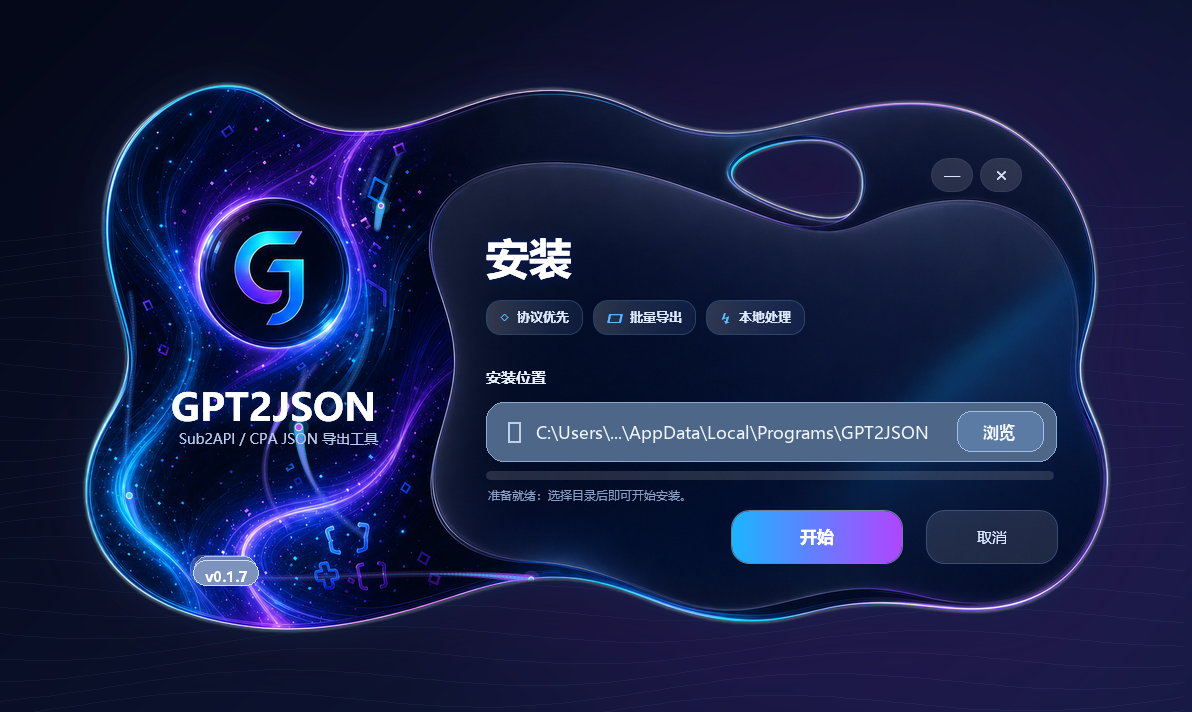
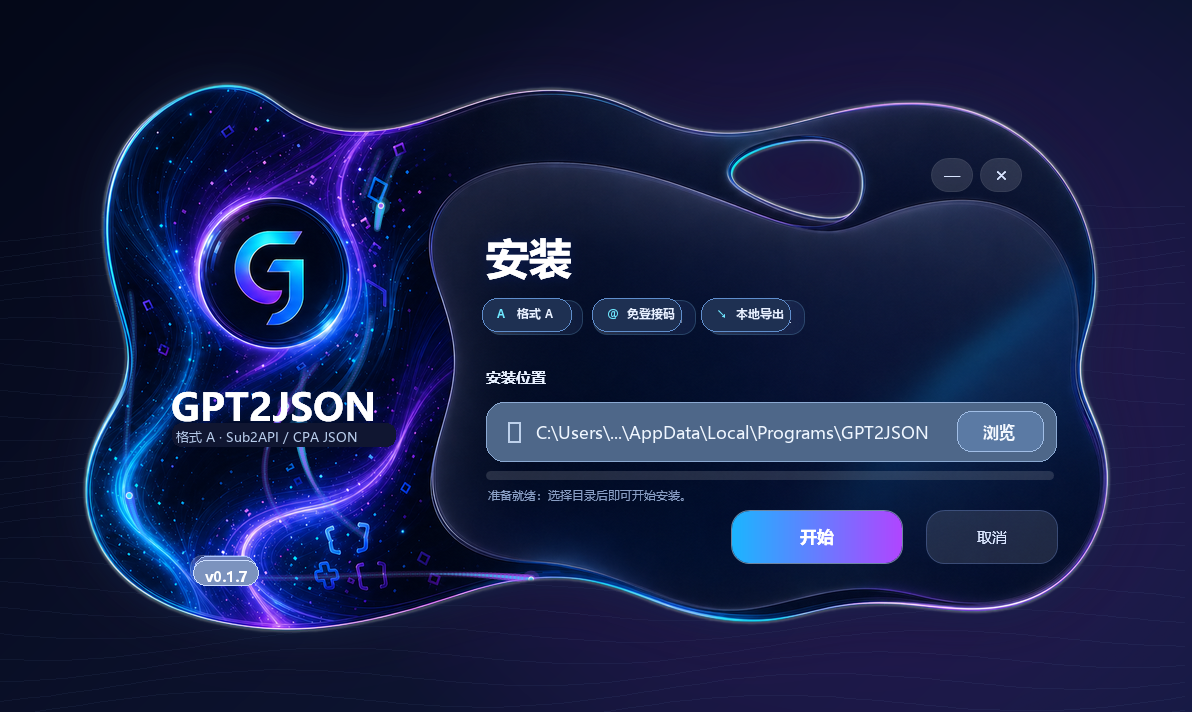
Clarify supplier format A wording

Changed region(s): [[0.4035, 0.4017, 0.6829, 0.4635], [0.1552, 0.5871, 0.3414, 0.6489]]

diff --git a/scripts/generate_docs_assets.py b/scripts/generate_docs_assets.py
@@ -131,12 +131,12 @@ def create_hero() -> None:
     draw.text((316, 157), f"v{version}", font=font(24, bold=True), fill="#DCEBFF")
     draw.text((144, 280), "GPT2JSON", font=font(112, bold=True), fill="#FFFFFF")
     draw.text((149, 405), "Sub2API / CPA JSON 导出工具", font=font(43, bold=True), fill="#DBEAFE")
-    draw.text((151, 468), "本地生成 · 按号商格式适配 · 中文桌面体验 · 批次隔离", font=font(30), fill="#AFC4EA")
+    draw.text((151, 468), "本地生成 · 号商格式 A · 中文桌面体验 · 批次隔离", font=font(30), fill="#AFC4EA")
 
     # Minimal capability row: fine separators instead of heavy badges.
     cap_layer = Image.new("RGBA", img.size, (0, 0, 0, 0))
     cap_draw = ImageDraw.Draw(cap_layer)
-    cap_specs = [(151, "号商格式", "#60A5FA"), (318, "本地导出", "#22D3EE"), (484, "Sub2API", "#A78BFA"), (660, "CPA", "#34D399"), (770, "批次隔离", "#93C5FD")]
+    cap_specs = [(151, "格式 A", "#60A5FA"), (286, "免登接码", "#22D3EE"), (452, "Sub2API", "#A78BFA"), (628, "CPA", "#34D399"), (738, "批次隔离", "#93C5FD")]
     for index, (x, label, color) in enumerate(cap_specs):
         cap_draw.ellipse((x, 584, x + 10, 594), fill=color)
         cap_draw.text((x + 19, 574), label, font=font(22, bold=True), fill=(226, 239, 255, 218))
@@ -215,6 +215,38 @@ def create_installer_preview() -> None:
         text_font = font(max(15, int(height * 0.020)), bold=True)
         bbox = draw.textbbox((0, 0), text, font=text_font)
         draw.text((x1 + (x2 - x1 - (bbox[2] - bbox[0])) / 2, y1 + (y2 - y1 - (bbox[3] - bbox[1])) / 2 - 1), text, font=text_font, fill="#FFFFFF")
+        # Keep the sanitized real screenshot aligned with current installer copy.
+        # These patches intentionally sit on top of the screenshot so the local
+        # install path remains sanitized while wording changes stay deterministic.
+        sx = width / 1200
+        sy = height / 720
+        label_font = font(max(12, int(14 * sy)))
+        pill_font = font(max(11, int(13 * sy)), bold=True)
+        draw.rounded_rectangle(
+            (int(174 * sx), int(428 * sy), int(398 * sx), int(452 * sy)),
+            radius=max(8, int(10 * sy)),
+            fill=(16, 22, 49, 210),
+        )
+        draw.text((int(178 * sx), int(433 * sy)), "格式 A · Sub2API / CPA JSON", font=label_font, fill="#B8CDEC")
+
+        def installer_pill(x: int, icon: str, label: str) -> None:
+            px = int(x * sx)
+            py = int(302 * sy)
+            pw = int(90 * sx)
+            ph = int(34 * sy)
+            draw.rounded_rectangle(
+                (px, py, px + pw, py + ph),
+                radius=max(12, int(16 * sy)),
+                fill=(30, 48, 82, 245),
+                outline=(95, 142, 205, 170),
+                width=1,
+            )
+            draw.text((px + int(16 * sx), py + int(8 * sy)), icon, font=pill_font, fill="#6EE7FF")
+            draw.text((px + int(36 * sx), py + int(8 * sy)), label, font=pill_font, fill="#E8F0FF")
+
+        installer_pill(486, "A", "格式 A")
+        installer_pill(596, "@", "免登接码")
+        installer_pill(706, "↘", "本地导出")
         img.convert("RGB").save(preview, quality=96)
         print(f"Preserved real installer screenshot and updated version badge: {preview}")
         return

diff --git a/gpt2json/gui.py b/gpt2json/gui.py
@@ -146,7 +146,7 @@ def install_qt_translations(app: QApplication | None) -> None:
     _QT_TRANSLATIONS_INSTALLED = installed
 
 
-READY_LOG = "🟢 等待开始：请粘贴账号文本，或导入账号文件。\n📄 当前支持：号商页面 https://pay.ldxp.cn/shop/plus7 提供的账号格式，后续格式适配敬请期待。\n📮 说明：程序会优先尝试账密登录；只有服务端要求验证码时，才会访问输入里的取码源。"
+READY_LOG = "🟢 等待开始：请粘贴账号文本，或导入账号文件。\n📄 当前支持：号商格式 A（GPT 账密 + 免登录接码）：https://pay.ldxp.cn/shop/plus7，后续格式适配敬请期待。\n📮 说明：程序会优先尝试 GPT 账密登录；只有服务端要求验证码时，才会访问输入里的接码源。"
 _UI_FONT_FAMILY = ""
 _QT_TRANSLATORS: list[QTranslator] = []
 _QT_TRANSLATIONS_INSTALLED = False
@@ -456,7 +456,7 @@ class MainWindow(QMainWindow):
         self.paste_edit = QPlainTextEdit()
         self.paste_edit.setObjectName("PasteBox")
         self.paste_edit.setSizePolicy(QSizePolicy.Policy.Expanding, QSizePolicy.Policy.Expanding)
-        self.paste_edit.setPlaceholderText("自动识别账号格式\n当前支持：GPT邮箱----GPT登录密码----免登录取码源\n每行一个账号，以当前选中的输入来源为准。")
+        self.paste_edit.setPlaceholderText("自动识别账号格式\n当前支持：号商格式 A：GPT邮箱----GPT登录密码----免登录接码源\n每行一个账号，以当前选中的输入来源为准。")
         self.paste_edit.textChanged.connect(self._on_paste_changed)
         install_chinese_text_context_menu(self.paste_edit)
         self.input_stack.addWidget(self.paste_edit)

diff --git a/packaging/windows/artsetup/ArtSetup.cs b/packaging/windows/artsetup/ArtSetup.cs
@@ -243,7 +243,7 @@ namespace GPT2JSON.Setup
 
             var sub = new TextBlock
             {
-                Text = "Sub2API / CPA JSON 导出工具",
+                Text = "格式 A · Sub2API / CPA JSON",
                 Foreground = new SolidColorBrush(Color.FromRgb(184, 205, 236)),
                 FontSize = 14,
                 Margin = new Thickness(103, 354, 0, 0)
@@ -312,9 +312,9 @@ namespace GPT2JSON.Setup
             overlay.Children.Add(title);
 
             var features = new WrapPanel();
-            features.Children.Add(FeaturePill("◇", "协议优先"));
-            features.Children.Add(FeaturePill("▱", "批量导出"));
-            features.Children.Add(FeaturePill("↯", "本地处理"));
+            features.Children.Add(FeaturePill("A", "格式 A"));
+            features.Children.Add(FeaturePill("@", "免登接码"));
+            features.Children.Add(FeaturePill("↘", "本地导出"));
             Canvas.SetLeft(features, 410);
             Canvas.SetTop(features, 224);
             overlay.Children.Add(features);

diff --git a/gpt2json/parsing.py b/gpt2json/parsing.py
@@ -169,10 +169,10 @@ def parse_account_lines(lines: Iterable[str]) -> list[AccountRow]:
 INPUT_FORMATS: dict[str, InputFormat] = {
     "dash_otp": InputFormat(
         id="dash_otp",
-        label="号商格式 / 三段式",
+        label="号商格式 A / GPT账密+免登录接码",
         parser=parse_dash_otp_lines,
-        description="目前暂时只支持号商页面 https://pay.ldxp.cn/shop/plus7 提供的账号格式；第二段是 GPT/OpenAI 登录密码，后续格式适配敬请期待。",
-        placeholder="GPT邮箱----GPT登录密码----免登录取码源\n每行一个账号，粘贴内容优先于文件。",
+        description="目前暂时只支持号商页面 https://pay.ldxp.cn/shop/plus7 提供的账号格式；字段为 GPT 邮箱、GPT/OpenAI 登录密码、免登录接码源，后续格式适配敬请期待。",
+        placeholder="GPT邮箱----GPT登录密码----免登录接码源\n每行一个账号，粘贴内容优先于文件。",
     ),
 }
 

diff --git a/packaging/windows/artsetup/ArtUninstall.cs b/packaging/windows/artsetup/ArtUninstall.cs
@@ -204,7 +204,7 @@ namespace GPT2JSON.Uninstall
 
             var desc = new TextBlock
             {
-                Text = "将移除程序文件与快捷方式，账号与导出文件不会被安装器主动删除。",
+                Text = "将移除程序文件与快捷方式，账号与导出文件不会被卸载器主动删除。",
                 Foreground = new SolidColorBrush(Color.FromRgb(166, 187, 220)),
                 FontSize = 14,
                 TextWrapping = TextWrapping.Wrap,
@@ -360,7 +360,7 @@ namespace GPT2JSON.Uninstall
             });
             shell.Children.Add(new TextBlock
             {
-                Text = "Sub2API / CPA JSON 导出工具",
+                Text = "格式 A · Sub2API / CPA JSON",
                 Foreground = new SolidColorBrush(Color.FromRgb(184, 205, 236)),
                 FontSize = 14,
                 Margin = new Thickness(103, 354, 0, 0)

diff --git a/gpt2json/cli.py b/gpt2json/cli.py
@@ -15,7 +15,7 @@ def build_parser() -> argparse.ArgumentParser:
     parser = argparse.ArgumentParser(description="GPT2JSON：Sub2API / CPA JSON 导出工具。")
     supported_formats = ", ".join(["auto", *(fmt.id for fmt in list_input_formats())])
     parser.add_argument("--version", action="version", version=f"GPT2JSON {__version__}")
-    parser.add_argument("--input", help="账号文本文件：GPT邮箱----GPT登录密码----免登录取码源")
+    parser.add_argument("--input", help="账号文本文件：GPT邮箱----GPT登录密码----免登录接码源")
     parser.add_argument("--stdin", action="store_true", help="从标准输入读取账号文本；优先级高于 --input")
     parser.add_argument("--out-dir", required=True, help="输出目录")
     parser.add_argument("--concurrency", type=int, default=0, help="并发数；0 表示自动")

diff --git a/tests/test_parsing.py b/tests/test_parsing.py
@@ -26,7 +26,8 @@ def test_parse_account_lines_dedupes_and_normalizes():
 
 def test_input_format_registry_supports_auto_and_errors():
     dash_format = next(fmt for fmt in list_input_formats() if fmt.id == "dash_otp")
-    assert "号商格式" in dash_format.label
+    assert "号商格式 A" in dash_format.label
+    assert "免登录接码" in dash_format.label
     assert "pay.ldxp.cn/shop/plus7" in dash_format.description
     assert dash_format.placeholder
     future_presets = list_future_input_format_presets()

diff --git a/README.md b/README.md
@@ -71,25 +71,25 @@ gpt2json --input accounts.txt --out-dir output --input-format auto
 
 ## 当前支持
 
-### 当前支持来源
+### 当前支持格式
 
-| 来源 | 支持状态 | 说明 |
+| 格式 | 支持状态 | 字段结构 |
 | --- | --- | --- |
-| [号商格式](https://pay.ldxp.cn/shop/plus7) | ✅ 已支持 | 仅适配该页面交付的账号文本格式 |
+| [号商格式 A](https://pay.ldxp.cn/shop/plus7) | ✅ 已支持 | GPT 账号 + GPT 登录密码 + 免登录接码源 |
 
-当前版本只对上面这个号商页面交付的账号格式做了适配；其它来源、其它字段顺序或其它取码方式暂不保证可识别。
+当前版本只对 **号商格式 A** 做了适配；其它来源、其它字段顺序或其它接码方式暂不保证可识别。
 
 ### 支持的账号格式
 
 ```text
-GPT邮箱----GPT登录密码----免登录取码源
+GPT邮箱----GPT登录密码----免登录接码源
 ```
 
 | 字段 | 含义 |
 | --- | --- |
 | `GPT邮箱` | GPT / OpenAI 登录邮箱。 |
 | `GPT登录密码` | GPT / OpenAI 登录密码，不是邮箱密码。 |
-| `免登录取码源` | 号商提供的免登录验证码链接或取码源。 |
+| `免登录接码源` | 号商提供的免登录接码链接 / 验证码来源，不是邮箱密码或邮箱 token。 |
 
 示例为合成数据：
 
@@ -97,7 +97,7 @@ GPT邮箱----GPT登录密码----免登录取码源
 user@example.test----example-gpt-password----https://otp-service.test/latest?mail={email}
 ```
 
-> 后续格式适配敬请期待：实际适配顺序以号商提供的账号文本、取码链接、邮箱凭据或令牌字段为准。
+> 后续格式适配敬请期待：实际适配顺序以号商提供的账号文本、接码链接、邮箱凭据或令牌字段为准。
 
 ## 主要能力
 

diff --git a/docs/input-formats.md b/docs/input-formats.md
@@ -31,12 +31,12 @@ AccountRow(
 
 ## 当前内置格式
 
-当前内置格式注册为 `dash_otp`，桌面端显示为 `号商格式 / 三段式`。目前暂时只支持号商页面 <https://pay.ldxp.cn/shop/plus7> 提供的账号格式，后续格式适配敬请期待。用户侧默认可以保持 `auto`，由 parser 注册表自动匹配。
+当前内置格式注册为 `dash_otp`，桌面端显示为 `号商格式 A / GPT账密+免登录接码`。目前暂时只支持号商页面 <https://pay.ldxp.cn/shop/plus7> 提供的账号格式，后续格式适配敬请期待。用户侧默认可以保持 `auto`，由 parser 注册表自动匹配。
 
 桌面端也会展示若干未来预制格式，例如号商邮箱账密、号商邮箱令牌、号商自定义取码、CSV/表格批量等；这些预制项当前仅用于展示路线，处于禁用状态，不能被选中。实际开放顺序以号商提供的交付格式为准。
 
 ```text
-GPT邮箱----GPT登录密码----免登录取码源
+GPT邮箱----GPT登录密码----免登录接码源
 ```
 
 映射关系：
@@ -45,7 +45,7 @@ GPT邮箱----GPT登录密码----免登录取码源
 password = GPT登录密码         # GPT/OpenAI 登录密码
 email_password = ""           # 当前格式不提供邮箱密码
 email_token = ""              # 当前格式不提供邮箱 token
-otp_source = 免登录取码源
+otp_source = 免登录接码源
 ```
 
 当前 parser 会按登录邮箱去重，避免同一个 GPT 账号在同批输入中重复执行。导出层会为每次运行创建唯一 `CPA_<批次>/` 目录，并对 CPA 文件名做二次防覆盖保护：如果服务端返回的 token 邮箱重复，会自动生成 `name.json`、`name_002.json` 这类文件名。

diff --git a/docs/project-structure.md b/docs/project-structure.md
@@ -25,7 +25,7 @@ gpt2json/
 │  ├─ mail_providers.py        # 号商/邮箱来源与取码实现排序提示
 │  ├─ models.py                # 批处理与登录结果数据模型
 │  ├─ oauth.py                 # OAuth 参数、PKCE 与 token 辅助函数
-│  ├─ otp.py                   # 免登录取码源解析与验证码提取
+│  ├─ otp.py                   # 免登录接码源解析与验证码提取
 │  ├─ parsing.py               # 输入格式识别与字段解析
 │  ├─ protocol.py              # 协议登录与 OAuth JSON 交换
 │  └─ updater.py               # GitHub Release 更新检查

diff --git a/docs/mail-backends.md b/docs/mail-backends.md
@@ -2,10 +2,10 @@
 
 GPT2JSON 后续格式适配以 **号商实际提供的交付格式** 为准，而不是先对外承诺某一类抽象协议。
 
-当前公开版本暂时只支持号商页面 <https://pay.ldxp.cn/shop/plus7> 提供的三段式格式：
+当前公开版本暂时只支持号商页面 <https://pay.ldxp.cn/shop/plus7> 提供的 **号商格式 A：GPT 账号 + GPT 登录密码 + 免登录接码源**：
 
 ```text
-GPT邮箱----GPT登录密码----免登录取码源
+GPT邮箱----GPT登录密码----免登录接码源
 ```
 
 ## 适配原则

diff --git a/docs/troubleshooting.md b/docs/troubleshooting.md
@@ -5,7 +5,7 @@
 先确认当前版本支持的账号格式：目前暂时只支持号商页面 <https://pay.ldxp.cn/shop/plus7> 提供的账号格式，后续格式适配敬请期待。
 
 ```text
-GPT邮箱----GPT登录密码----免登录取码源
+GPT邮箱----GPT登录密码----免登录接码源
 ```
 
 注意中间字段是 GPT/OpenAI 登录密码，不是邮箱密码。
